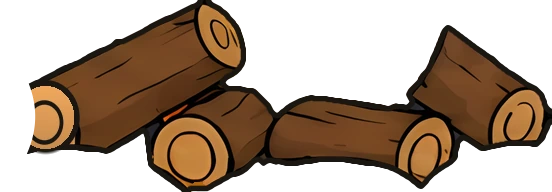
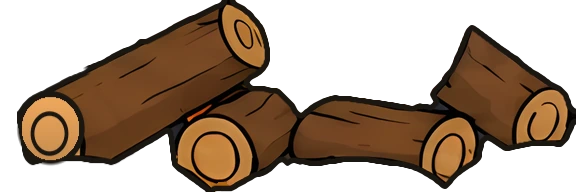
Far-left log: longer, its round end out on the rock (painting restored)
Undo the tuck-behind-the-rock change (the painting is back as it was) and
instead extend the far-left log: its own end is slid outward along the log
so the wood, shading and outlines carry on seamlessly and the round end
sits out on the rock. The log image gains 12px on the left; LOGS_AT moves.

Claude-Session: https://claude.ai/code/session_01LEzX9WUx8sWcSwwRyLeaEz

Changed region(s): [[0.0308, 0.0, 1.0, 1.0], [0.8623, 0.4062, 0.8931, 0.4375]]

diff --git a/web/src/components/scene.ts b/web/src/components/scene.ts
@@ -33,7 +33,7 @@ export interface SceneView { fireX: number; fireTop: number; width: number; heig
 
 // The art is painted at twice the size it is drawn (AR), so it stays sharp on big and high-density screens.
 const AR = 2, aw = (i: { width: number }) => i.width / AR, ah = (i: { height: number }) => i.height / AR;
-const W = 1942, H = 809, ZOOM = 1.1, FIRE = { x: 958, y: 605 }, PIT = { x: 958, y: 634 }, LOGS_AT = { x: 819, y: 584 };
+const W = 1942, H = 809, ZOOM = 1.1, FIRE = { x: 958, y: 605 }, PIT = { x: 958, y: 634 }, LOGS_AT = { x: 807, y: 584 };
 const BASE = import.meta.env.BASE_URL;
 const THUNDER = ["clap1", "sr1", "sr2", "sr3", "sr4", "dry1", "dry2", "dry3", "dry4"];
 const IMAGES = ["a-land.webp", "a-water.webp", "a-logs.webp", "a-logs-lit.webp", "a-tufts.webp", "a-canopy.webp", ...PAINT.clouds.map((c) => c.f),
